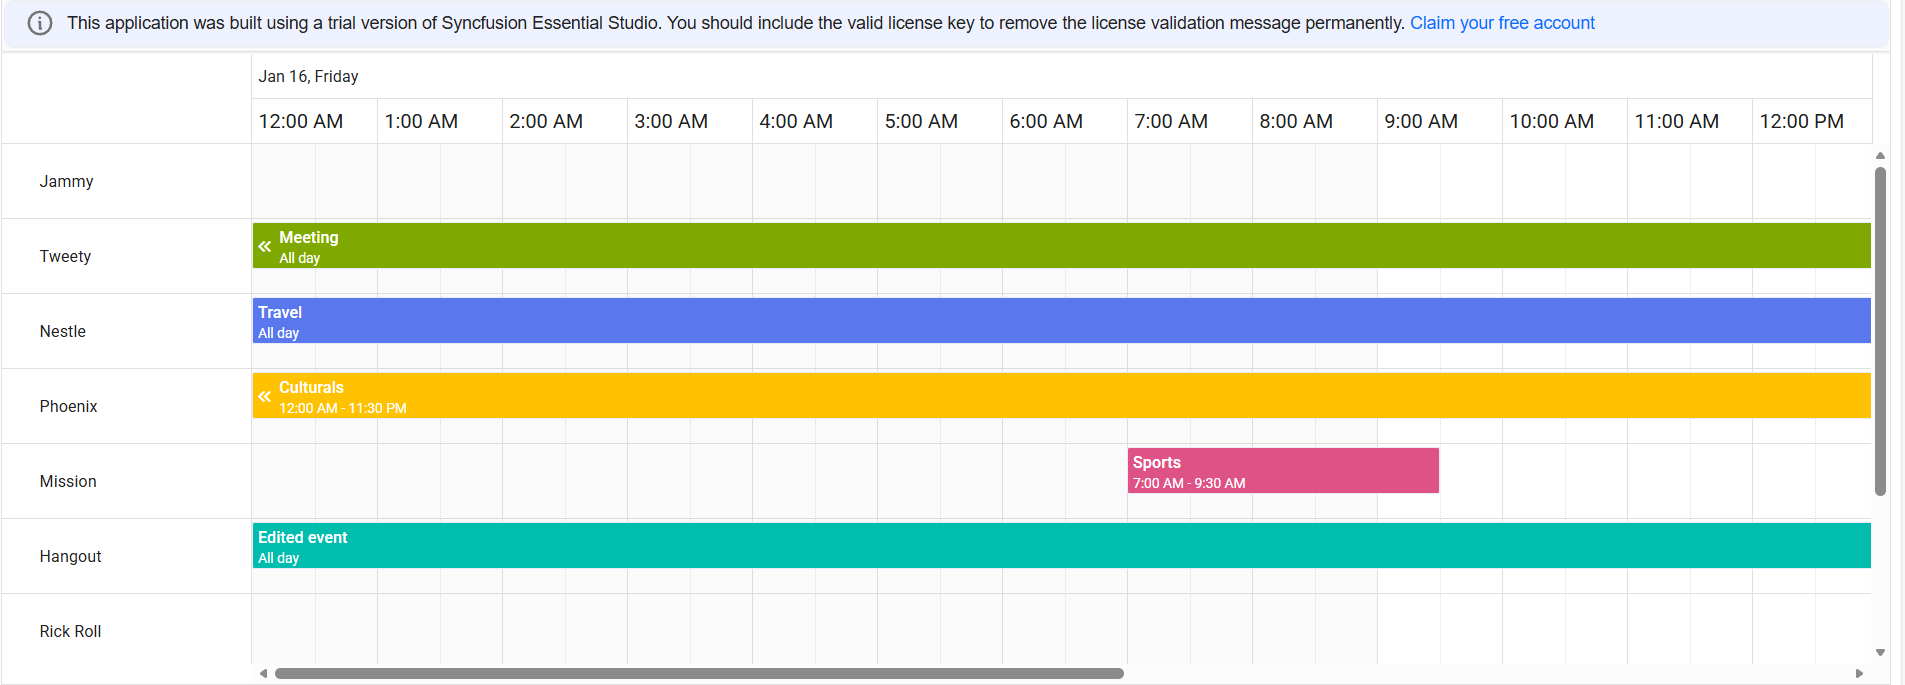
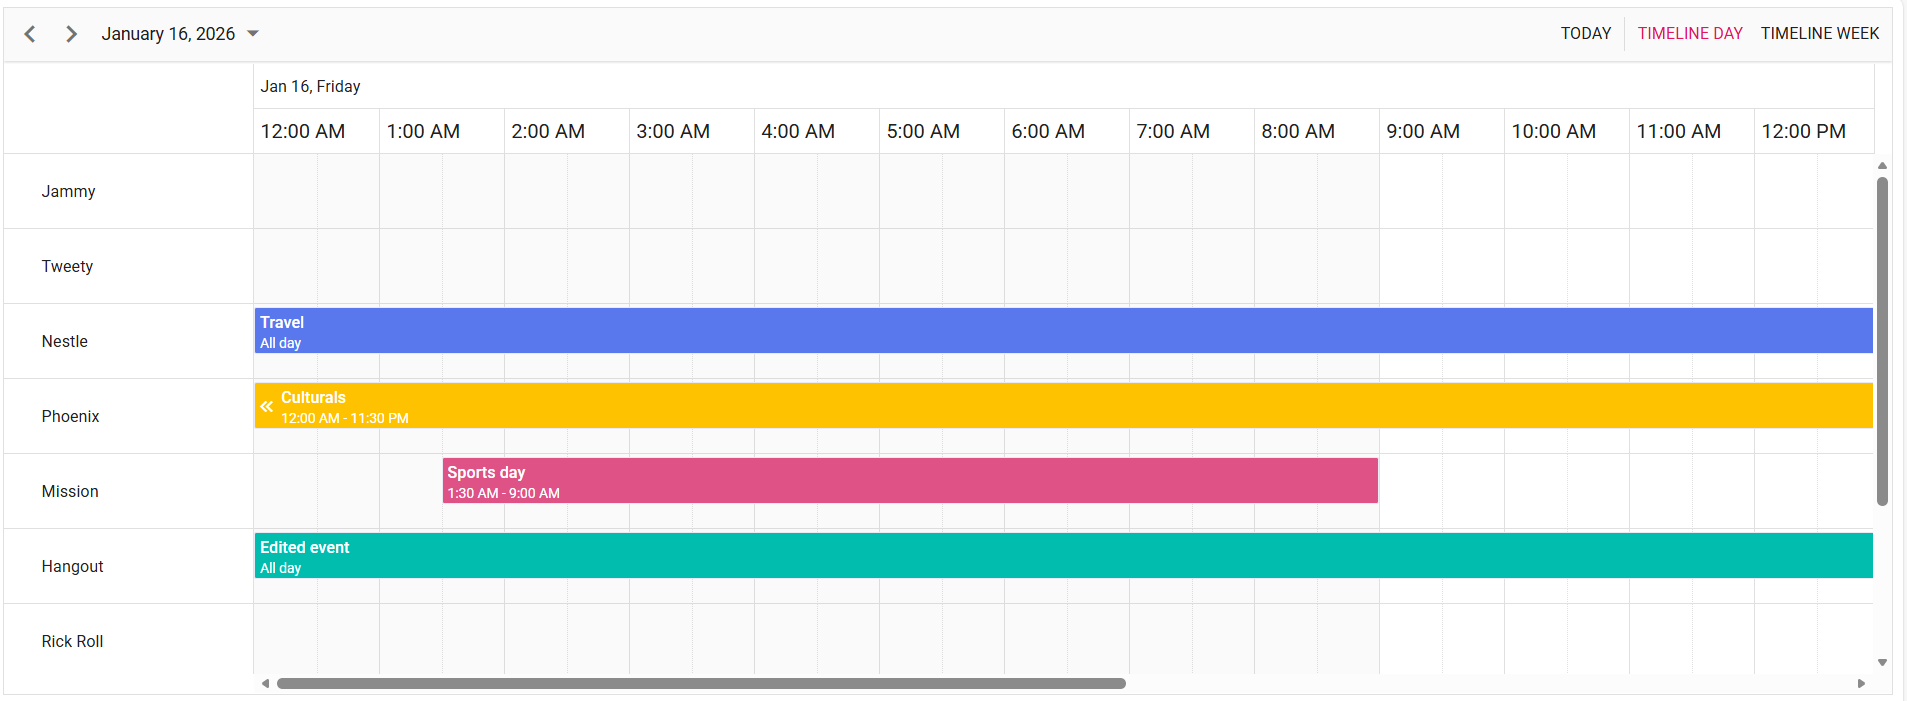
Resolve the Suggested Changes

diff --git a/README.md b/README.md
@@ -11,17 +11,7 @@ This repository contains a sample full-stack application demonstrating how to sy
 - XAMPPSERVER(>= 8.2.12)
 - A MySQL Database with Username , Password and DataBase (Download at https://dev.mysql.com/downloads/installer/)
 - XAMPPSERVER For PHP using apachae server(Download at https://www.apachefriends.org/download.html)
-- Basic familiarity with MySQL and PHP
-- Make sure the ports nothing run on 80 , 3306
 
-## Project Structure
-```
-├── README.md                  # This guide
-├── DB
-│   ├── scheduledb.sql         # DB Query
-├── index.php                  # Scheduler Configuration
-└── server.php                 # Database Configuration
-```  
 ## Setup
 
 ### Cloning the Repository
@@ -36,9 +26,9 @@ This repository contains a sample full-stack application demonstrating how to sy
 ### Start Xampp Server
 
 - After the successful installation of the XAMPP server, launch the application and start the Apache server.
-- Move the `Javascript-Scheduler-CRUD-PHP-and-MySQL` repository files in the XAMPP server's root directory, specifically at `C:\xampp\htdocs`.
+- Move the `Javascript-Scheduler-CRUD-PHP-MySQL` repository files in the XAMPP server's root directory, specifically at `C:\xampp\htdocs`.
 - Upon completion, Launch a web browser and navigate to `localhost`, you will be able to see the server running.
-- Next, Navigate to `localhost/Javascript-Scheduler-CRUD-PHP-and-MySQL` in your web browser. You will now be able to access the running Syncfusion scheduler application.
+- Next, Navigate to `localhost/Javascript-Scheduler-CRUD-PHP-MySQL` in your web browser. You will now be able to access the running Syncfusion scheduler application.
 - Now, you can perform the CRUD operations it will be reflected on MySQL Database.
 
 ## Running the application
@@ -48,7 +38,7 @@ This repository contains a sample full-stack application demonstrating how to sy
   - Start **Apache**
 
 2. **Place project files**
-  - Copy the project folder `Javascript-Scheduler-CRUD-PHP-and-MySQL` into:
+  - Copy the project folder `Javascript-Scheduler-CRUD-PHP-MySQL` into:
      ```
      C:\xampp\htdocs\
      ```
@@ -58,7 +48,7 @@ This repository contains a sample full-stack application demonstrating how to sy
    
   - Then open the app:
      ```
-     http://localhost/Javascript-Scheduler-CRUD-PHP-and-MySQL
+     http://localhost/Javascript-Scheduler-CRUD-PHP-MySQL
      ```
 4. You can perform CRUD operation on the scheduler that will be reflected in the MySQL database table.
 
